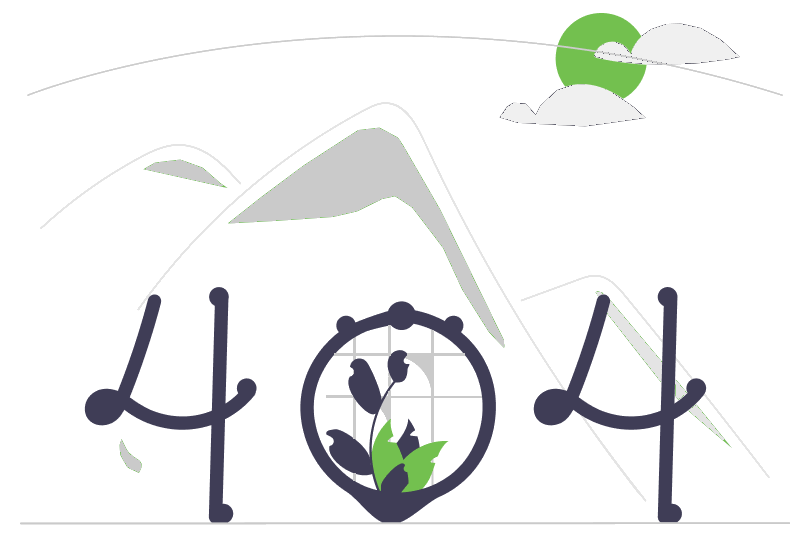
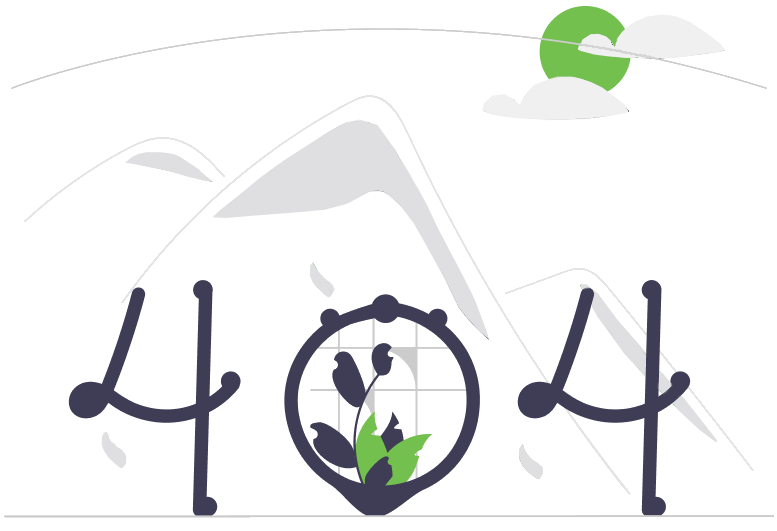
finalize 404 page

diff --git a/pages/404/index.tsx b/pages/404/index.tsx
@@ -1,26 +1,40 @@
-import { styled, Typography } from '@mui/material'
+import { styled, Typography, useTheme, Grid, IconButton } from '@mui/material'
 import React from 'react'
 import ImgNotFound from './Image/ImgNotFound'
-
-const Container = styled('div')(({ theme }) => ({
-    padding: 56,
-    minHeight: "100vh",
-    marginTop: 20,
-    marginBottom: 20,
-    display: "flex",
-    flexDirection: "column",
-    justifyContent: "space-between",
-    alignItems: "center"
-}))
+import Layout from './layout/Layout';
+import ArrowBackIcon from "@mui/icons-material/ArrowBack";
+import Home from "@mui/icons-material/Home";
+import Container from "@mui/material/Container";
 
 const PageNotFound = () => {
-  return (
-    <Container>
-        <Typography variant="h4" color="initial" sx={{my: 2}}>Oops !</Typography>
-        <ImgNotFound/>
-        <Typography variant="h4" color="initial" sx={{my: 2}}>Cette page n'existe pas encore !</Typography>
-    </Container>
-  )
+    const theme = useTheme();
+    return (
+        <Layout>
+            <Container  >
+                <Grid justifyContent= "center"
+                alignItems= "center"
+                align="center"
+                 container mt={2}>
+                    <Grid item xs={12} md={2} lg={2}>
+                        <IconButton color="success">
+                            <ArrowBackIcon/>
+                        </IconButton>
+                    </Grid>
+                    <Grid item xs={12} md={8} lg={8}>
+                        <Typography variant="h4" color="initial" sx={{my: 2}}>Oops !</Typography>
+                            <ImgNotFound/>
+                        <Typography variant="h4" color="initial" sx={{my: 2}}>Cette page n'existe pas encore !</Typography>
+                    </Grid>
+                    <Grid item xs={12} md={2} lg={2}>
+                        <IconButton color="success">
+                            <Home/>
+                        </IconButton>
+                    </Grid>
+                </Grid>
+            </Container>
+        </Layout>
+      ) 
 }
+
 
 export default PageNotFound

diff --git a/pages/404/layout/Footer.tsx b/pages/404/layout/Footer.tsx
@@ -1,0 +1,50 @@
+import { Stack, useTheme } from '@mui/material';
+import { Paper, styled, Container, Typography } from '@mui/material';
+import React from 'react'
+
+const Footer = () => {
+  const theme = useTheme()
+  return (
+    <ContainerFooter sx={{ mt: 2 }}>
+      <Container maxWidth="xl">
+        <Stack
+          spacing={0}
+          direction="column"
+          alignItems="center"
+          py={1}
+        >
+          <Typography
+            variant="body2"
+            sx={{ color: theme.palette.grey[500] }}
+          >
+            Copyright © 2022 | <Lien>HAISOA</Lien>{" "}
+          </Typography>
+          <Typography
+            variant="body2"
+            sx={{ color: theme.palette.grey[500] }}
+          >
+            Version ¤ <Lien>1.0.0</Lien>, dernière mise à jour :{" "}
+            <Lien>10/01/2023</Lien>{" "}
+          </Typography>
+        </Stack>
+      </Container>
+    </ContainerFooter>
+  )
+}
+
+export default Footer
+
+const ContainerFooter = styled(Paper)(({ theme }) => ({
+  backgroundColor: theme.palette.grey[300],
+  // position: "absolute",
+  bottom: 0,
+  width: "100%",
+  borderRadius: 0
+}));
+const Lien = styled("span")(({ theme }) => ({
+  color: theme.palette.secondary.main,
+  cursor: "pointer",
+  "&:hover": {
+    color: theme.palette.info.main,
+  },
+}));

diff --git a/pages/404/layout/Layout.tsx b/pages/404/layout/Layout.tsx
@@ -1,0 +1,16 @@
+import { useMediaQuery, useTheme } from "@mui/material";
+import React from "react";
+import Footer from "./Footer";
+
+const Layout = ({ children }: any) => {
+  const theme = useTheme();
+
+  return (
+    <>
+      {children}
+      <Footer />
+    </>
+  );
+};
+
+export default Layout;
